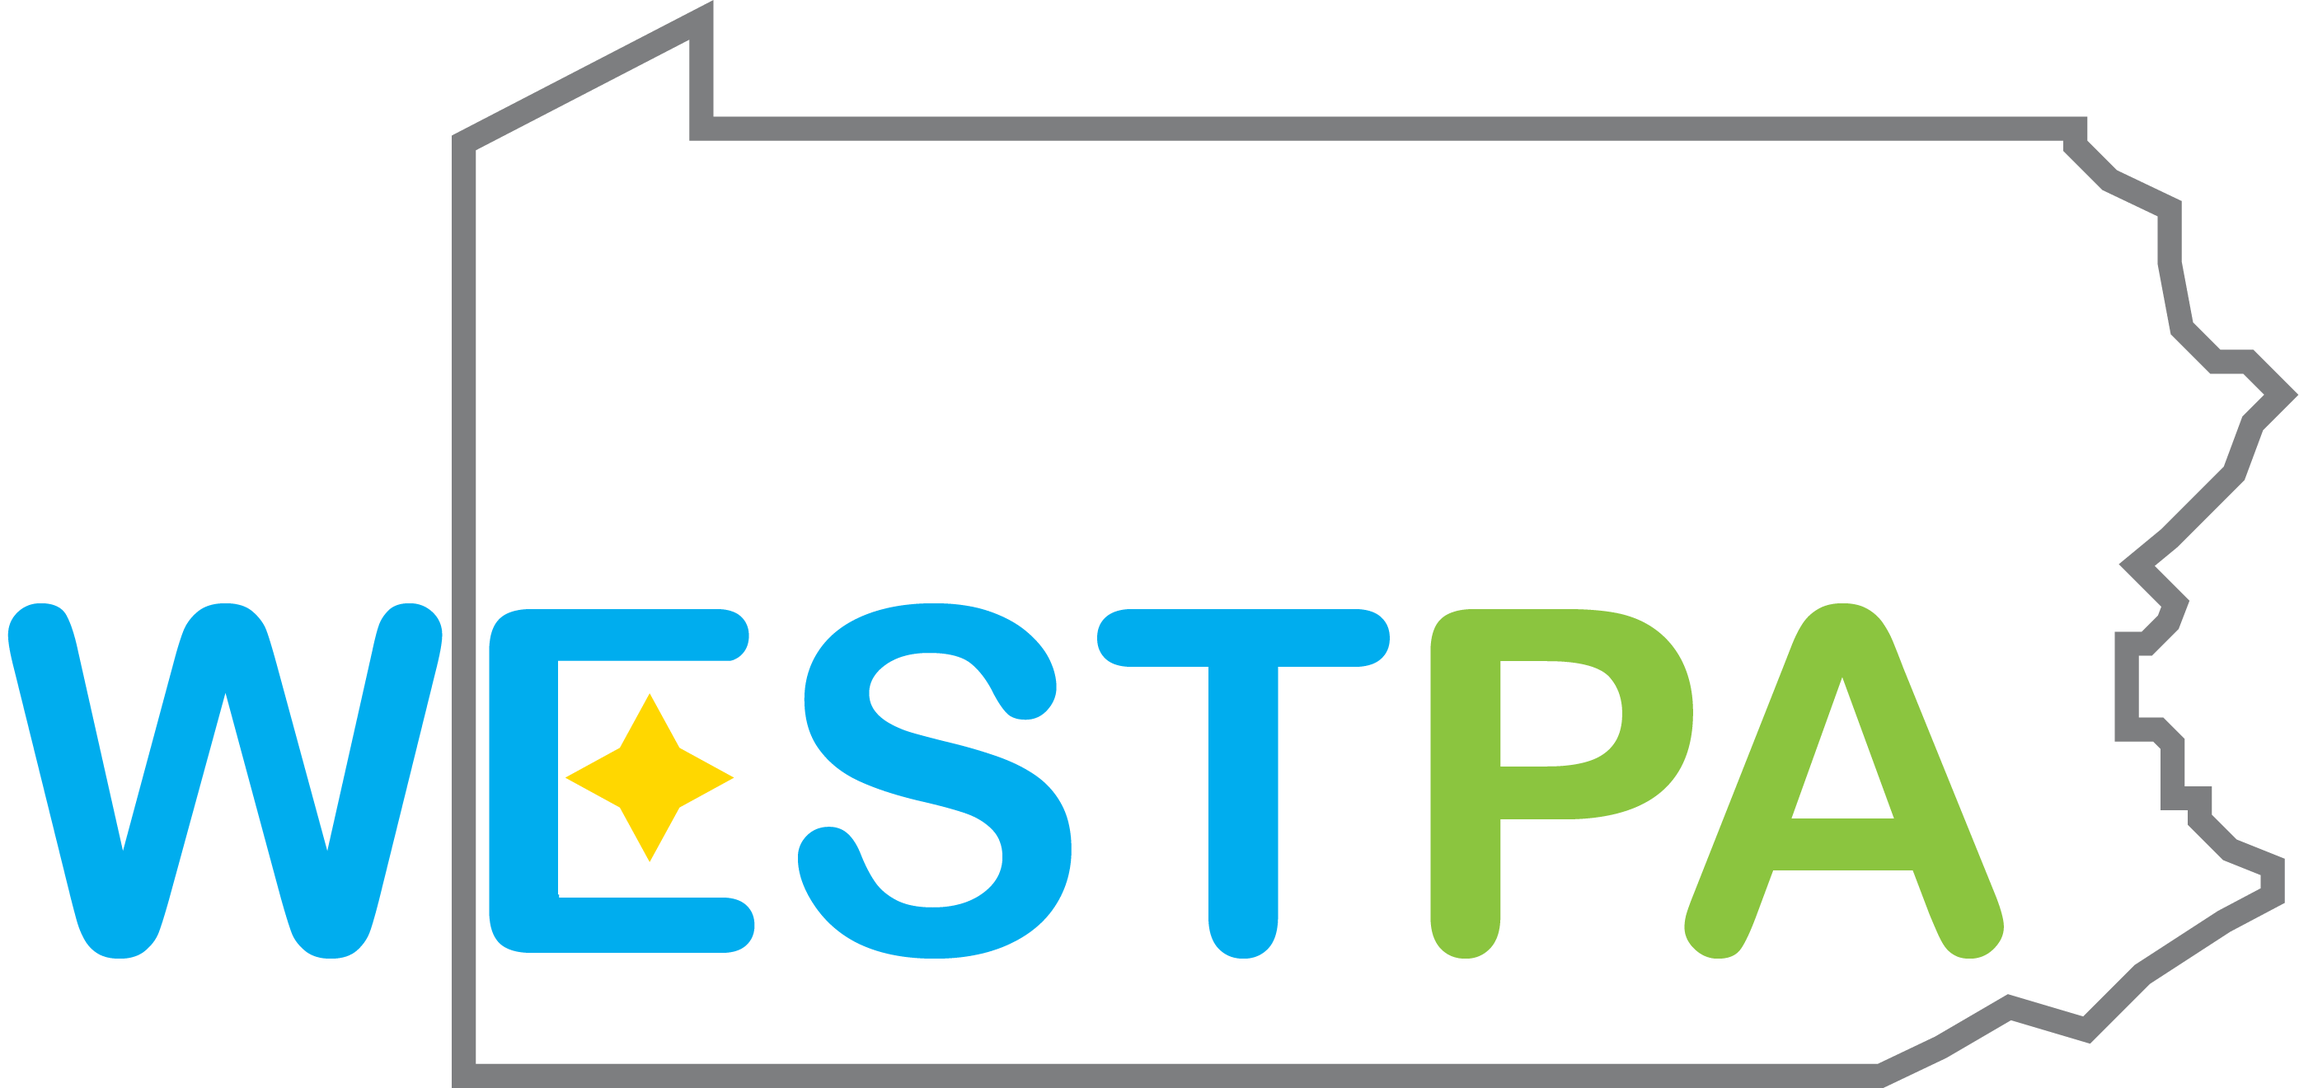
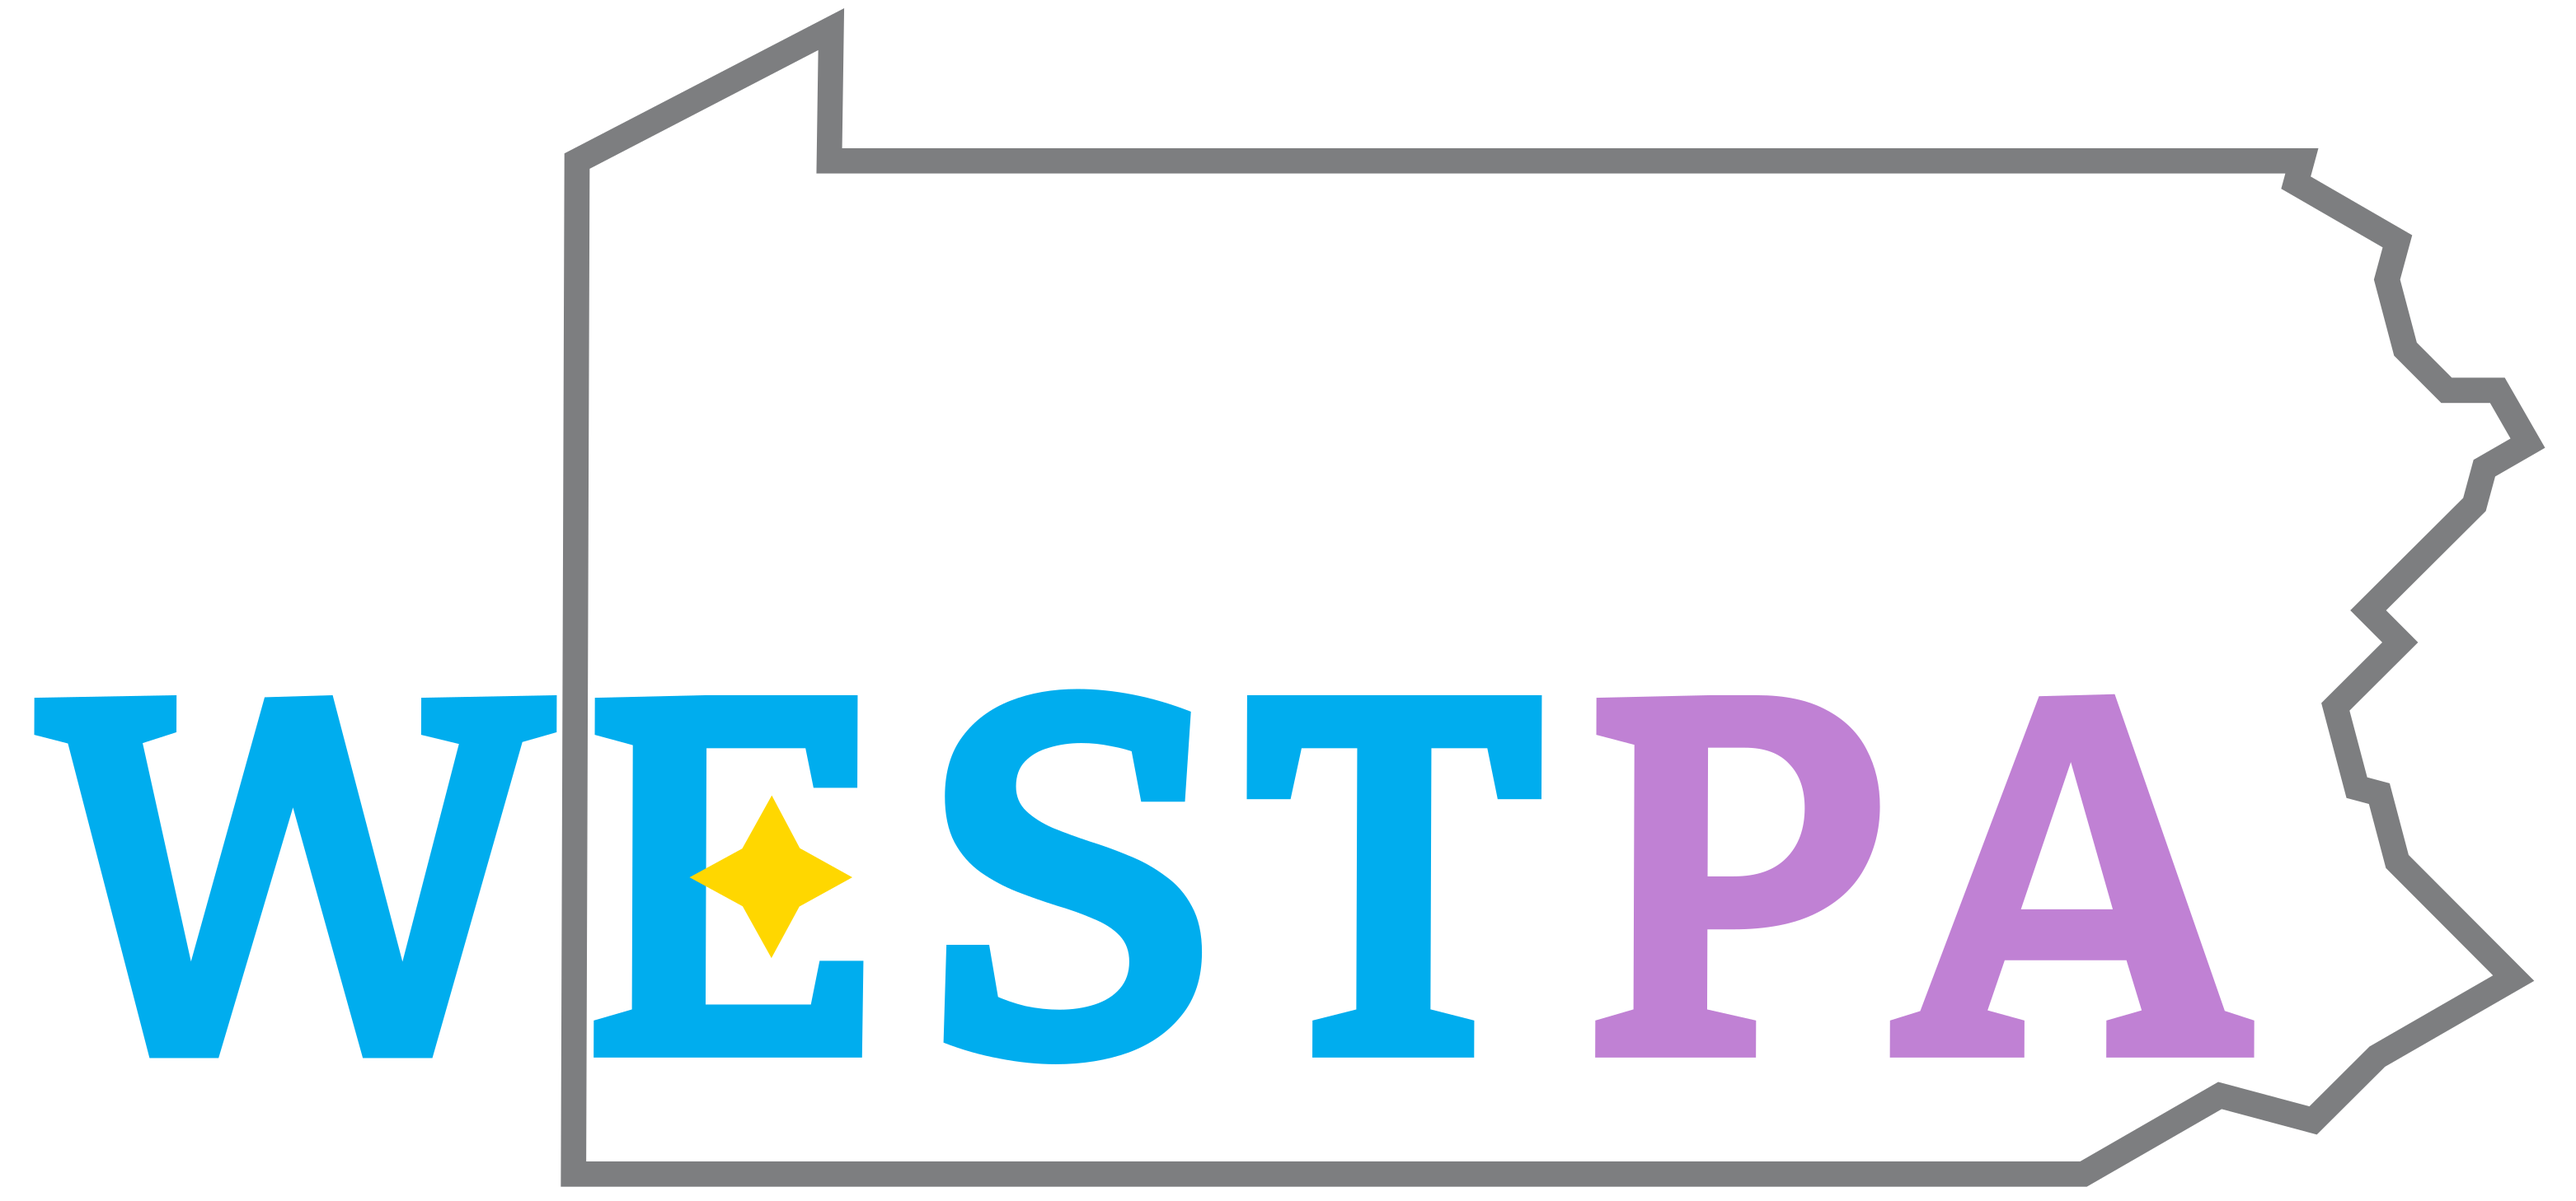
Documentation Fix (#257)
* update logo and some little config fixes

* trim down white space in logo

* trim wiki_images

diff --git a/doc/conf.py b/doc/conf.py
@@ -78,7 +78,7 @@ master_doc = 'sphinx_index'
 #
 # This is also used if you do content translation via gettext catalogs.
 # Usually you set "language" from the command line for these cases.
-language = None
+language = 'en'
 
 # There are two options for replacing |today|: either, you set today to some
 # non-false value, then it is used:

diff --git a/doc/sphinx_index.rst b/doc/sphinx_index.rst
@@ -2,7 +2,7 @@
 
 .. toctree::
    :maxdepth: 5
-   :caption: For Advanced Users (2.0):
+   :caption: For Users (v2022.XX):
    :hidden:
 
     WESTPA Command Line Interface     <documentation/cli>
@@ -29,7 +29,7 @@
 
 .. toctree::
    :maxdepth: 1
-   :caption: For Legacy Users (1.0):
+   :caption: For Legacy Users (v2020.XX):
    :hidden:
 
     WEST                      <users_guide/west>
